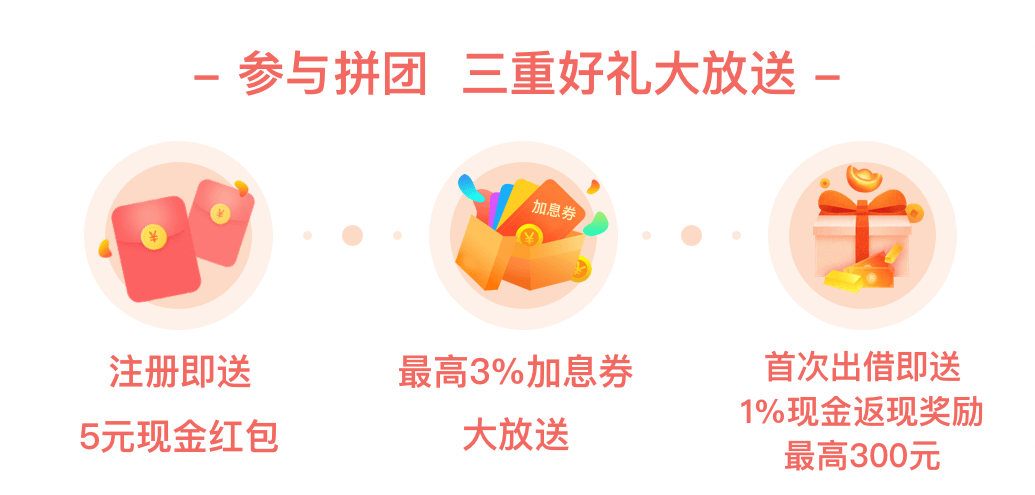
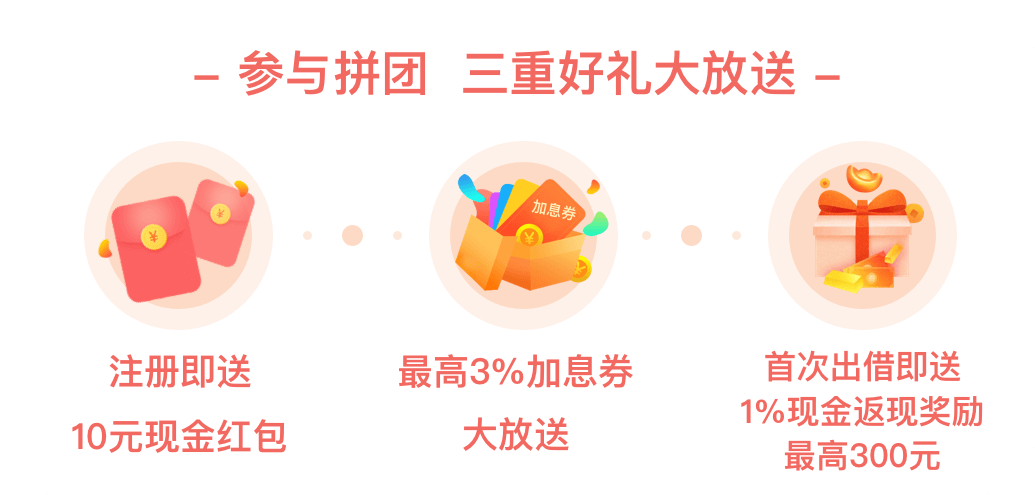
123123

Changed region(s): [[0.0618, 0.8485, 0.2783, 0.9394]]

diff --git a/src/views/common/activities/spellTeam.vue b/src/views/common/activities/spellTeam.vue
@@ -73,8 +73,8 @@
                 </div>
                 <p>现在完成账户设置，即可领取10元现金红包啦，快快下载APP提现吧！</p>
                 <section>
-                  <button @click="download">下载APP</button>
                   <button @click="shareActivity" class="clip-board">立即注册</button>
+                  <button @click="download">下载APP</button>
                 </section>
               </div>
             </div>
@@ -82,8 +82,8 @@
             <div class="no-act" v-else>
               <img src="./spellTeam/no-act.png" alt="" />
               <section>
-                <button @click="download">下载APP</button>
                 <button class="clip-board" @click="shareActivity">立即注册</button>
+                <button @click="download">下载APP</button>
               </section>
             </div>
           </div>
@@ -91,8 +91,8 @@
             <div class="title">活动细则</div>
             <section>
               <p>
-                <i>1</i>参团人数达到10人时，即获1%加息券奖励；参团人数达到20人，获2%加息券奖励；参团人数大于30人，即获3%加息券奖励。<br />
-                假设您出借<span style="color: #ff7a13;">1万元</span>，你将获得：
+                <i>1</i>
+                参团人数达到10人时，即获1%加息券奖励；参团人数达到20人，获2%加息券奖励；参团人数大于30人，即获3%加息券奖励。假设您出借1万元，你将获得：
               </p>
               <ul>
                 <li class="thead">
@@ -116,15 +116,15 @@
               </ul>
               <p>
                 <i>2</i>
-                加息券于拼团活动结束后1~3个工作日内发放至客户汇有财账户，仅适用于“汇选3个月（10%）”及“汇选6个月（11%）”的出借品类，有效期为发放后的7天。
+                加息券适用于出借指定产品“汇选3个月（10%）”、“汇选6个月（11%）”，于拼团活动结束后1~3工作日发放至客户汇有财账户，加息券有效期为发放后的7天。
               </p>
               <p>
                 <i>3</i>
-                参与拼团用户，下载汇有财APP完成账户设置（含开通银行存管）后即获得10元现金红包，可提现哟。
+                参与拼团的新手用户，下载汇有财APP完成账户设置（含开通银行存管）后即获得10元现金红包，可提现哟。
               </p>
               <p><i>4</i>1%返现奖励最高300元，于4月23日-4月29日发放。</p>
               <p><i>5</i>加息券及1%返现奖励仅适用于客户首次出借奖励，且首次出借金额不低于2000元，呼朋唤友来参与拼团吧。</p>
-              <p><i>6</i>为方便您获得现金红包及加息券，参与拼团即同意平台为您开通汇有财先息后本账号。账号可在汇有财APP通过短信验证码登录。</p>
+              <p><i>6</i>加息券的发放，需用户于活动期间注册汇有财账号。</p>
               <p><i>7</i>参与拼团必须为是真实用户，若核实为虚假用户，则成团无效。</p>
             </section>
           </div>
@@ -251,6 +251,13 @@ export default {
           })
         })
     },
+    queryProgress() {
+      return queryProgressApi({
+        leaderInviteCode: this.leaderInviteCode,
+        uuid: this.uuid,
+        groupId: this.groupId
+      })
+    },
     showJoinMask() {
       this.showMask = true
     },
@@ -271,6 +278,11 @@ export default {
           identifyCode: this.smsCode
         }).then(res => {
           if (res.data.resultCode === '1') {
+            this.queryProgress().then(res => {
+              const data = res.data
+              this.currPeopleNum = data.currPeopleNum
+              this.couponRate = data.couponRate
+            })
             this.isJoin = true
             this.showMask = false
             this.errMsg = ''
@@ -371,11 +383,7 @@ export default {
     }
 
     // 拼团活动进度查询接口
-    queryProgressApi({
-      leaderInviteCode: this.leaderInviteCode,
-      uuid: this.uuid,
-      groupId: this.groupId
-    }).then(res => {
+    this.queryProgress().then(res => {
       const data = res.data
       this.currPeopleNum = data.currPeopleNum
       this.couponRate = data.couponRate
@@ -616,9 +624,9 @@ export default {
         padding: 0.16rem 0.1rem;
         border-radius: 0.16rem;
         > p {
-          font-size: 0.13rem;
-          color: #5b5b5b;
-          line-height: 1.75;
+          font-size: 0.12rem;
+          color: #666;
+          line-height: 0.22rem;
           margin-bottom: 0.1rem;
           word-break: break-all;
           word-wrap: break-word;
@@ -634,6 +642,9 @@ export default {
             line-height: 0.16rem;
             color: #ffffff;
             background: #f67958;
+          }
+          &:last-child {
+            margin-bottom: 0;
           }
         }
       }

diff --git a/src/components/AppHeader/index.vue b/src/components/AppHeader/index.vue
@@ -24,7 +24,7 @@ export default {
       if (window.DjsJsBridge) {
         // 可能会调用app方法
       } else {
-        $router.go(-1)
+        this.$router.go(-1)
       }
     },
     getMore() {
